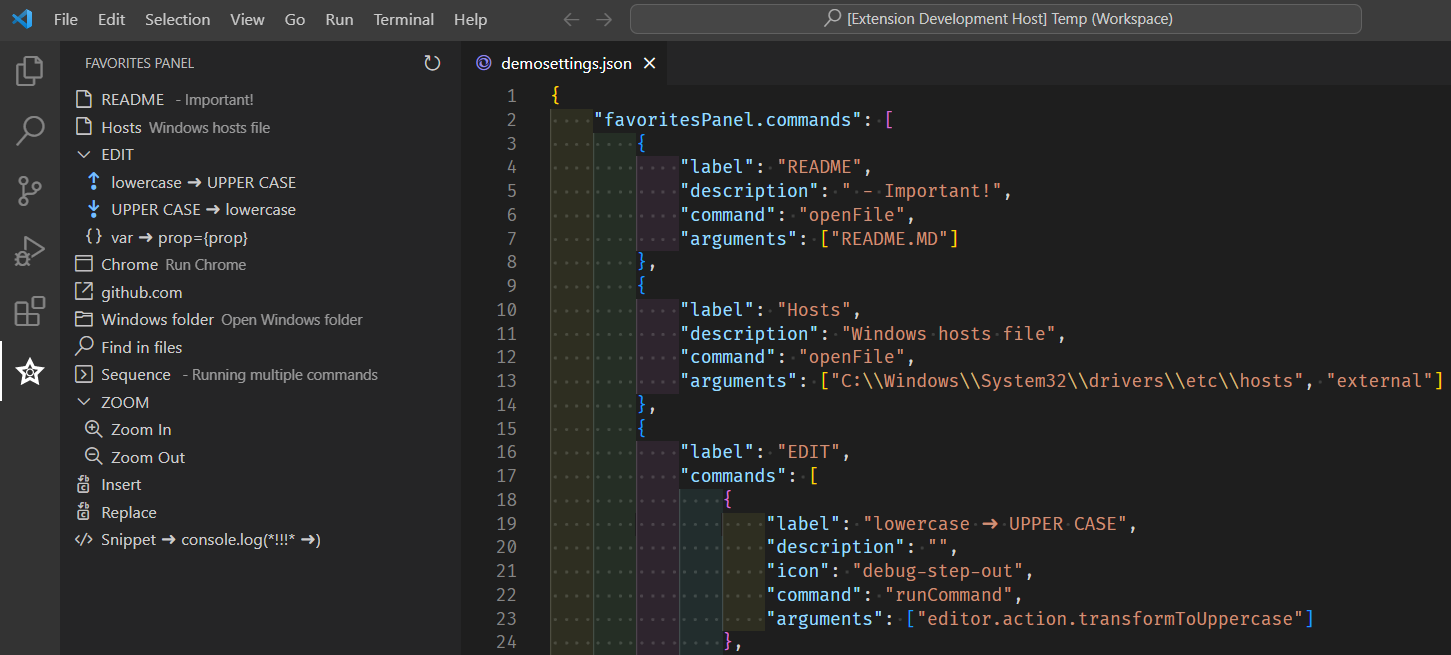
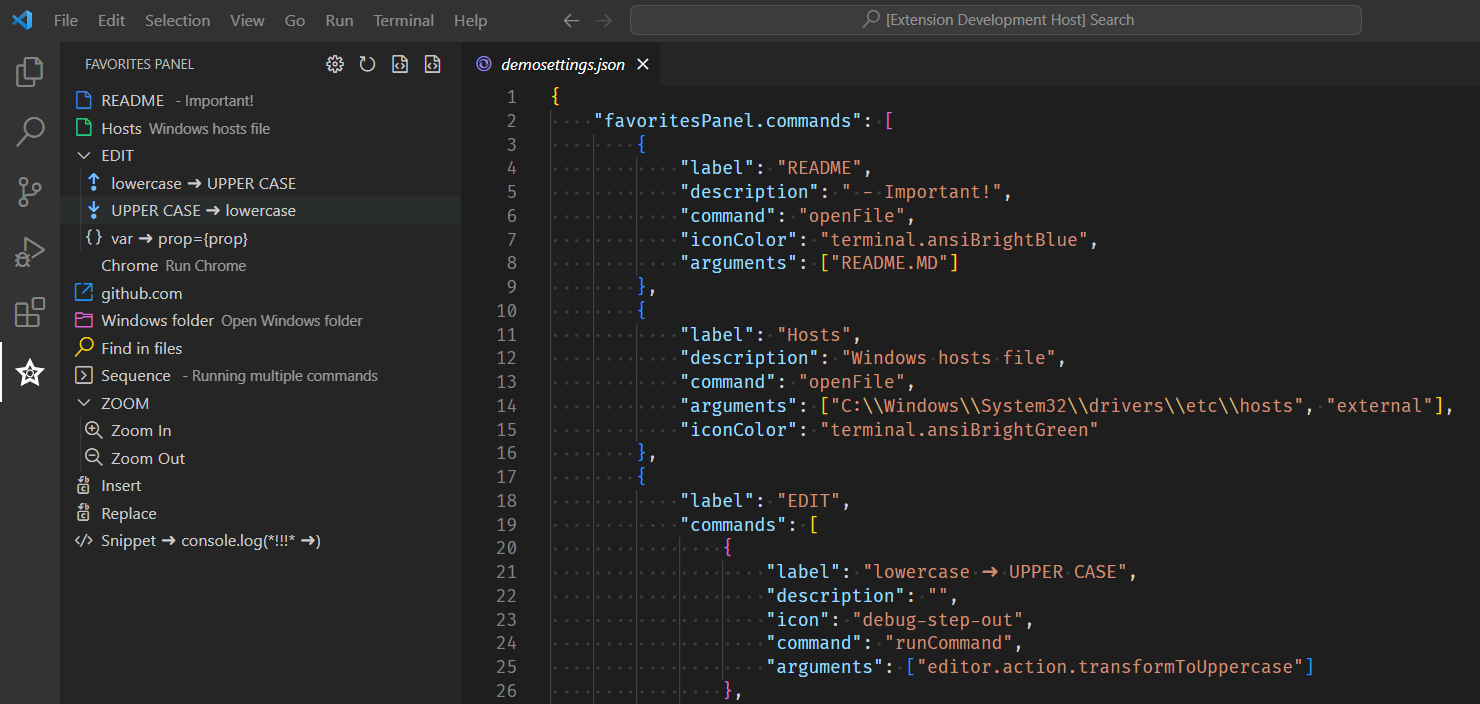
1.4.0 Added new settings format for files

diff --git a/src/extension.ts b/src/extension.ts
@@ -3,7 +3,7 @@ import * as vscode from 'vscode';
 import * as fs from 'fs';
 import * as path from 'path';
 import {PLUGIN_NAME} from './consts';
-import {ICommand, ICommandWithSequence, IStore, TCommand} from './types';
+import {ICommandWithSequence, IStore, TCommand} from './types';
 import {FavoritesPanelProvider} from './FavoritesPanelProvider';
 import {TreeItem} from './TreeItem';
 import {insertNewCode, openFile, openUrl, runCommand, runProgram, runSequence} from './commands';
@@ -76,10 +76,16 @@ const getCommandsFromWorkspaceConf = (): TCommand[] => vscode.workspace.getConfi
 const getConfFilePath = (): string => vscode.workspace.getConfiguration(PLUGIN_NAME).get('configPath') || '';
 const getWorkspaceConfFilePath = (): string => vscode.workspace.getConfiguration(PLUGIN_NAME).get('configPathForWorkspace') || '';
 
-// Get commands from file.
+/**
+ * Get commands from file.
+ * @param file full path with filename.
+ */
 const getCommandsFromFile = (file: string): TCommand[] => {
     if (file && fs.existsSync(file)) {
         const json = JSON.parse(fs.readFileSync(file, 'utf8'));
+        if (Array.isArray([json])) {
+            return json;
+        }
         return json[`${PLUGIN_NAME}.commands`];
     } else {
         return [];

diff --git a/README.md b/README.md
@@ -75,13 +75,98 @@ Example for OS Windows
 "favoritesPanel.configPath": "C:\\Projects\\favoritesPanel.json"
 ```
 
+Early versions of the extension prior to 1.3.0 only supported:
+```json
+{
+    "favoritesPanel.commands": [
+        {
+            "label": "README",
+            "description": " - Important!",
+            "command": "openFile",
+            "iconColor": "editorBracketHighlight.foreground6",
+            "arguments": ["README.MD"]
+        },
+        {
+            "label": "Hosts",
+            "description": "Windows hosts file",
+            "command": "openFile",
+            "arguments": ["C:\\Windows\\System32\\drivers\\etc\\hosts", "external"],
+            "iconColor": "editorBracketHighlight.foreground5"
+        }
+    ]
+}
+```
+
+Since version 1.4.0 you can also use a simplified version:
+```json
+[
+    {
+        "label": "README",
+        "description": " - Important!",
+        "command": "openFile",
+        "iconColor": "editorBracketHighlight.foreground6",
+        "arguments": ["README.MD"]
+    },
+    {
+        "label": "Hosts",
+        "description": "Windows hosts file",
+        "command": "openFile",
+        "arguments": ["C:\\Windows\\System32\\drivers\\etc\\hosts", "external"],
+        "iconColor": "editorBracketHighlight.foreground5"
+    }
+]
+```
+
+
 ### favoritesPanel.configPathForWorkspace
 Use this setting if you wish to set specific settings for the workspace.
 >Please note that you need to specify this setting in the workspace setting, not the User settings
 
 Example for OS Windows
 ```json
-"favoritesPanel.configPathForWorkspace": "C:\\Projects\\favoritesPanelForMyProject.json"
+"favoritesPanel.configPathForWorkspace": "C:\\Projects\\Project1\\favoritesPanelForMyProject1.json"
+```
+
+Early versions of the extension prior to 1.3.0 only supported:
+```json
+{
+    "favoritesPanel.commands": [
+        {
+            "label": "README",
+            "description": " - Important!",
+            "command": "openFile",
+            "iconColor": "editorBracketHighlight.foreground6",
+            "arguments": ["README.MD"]
+        },
+        {
+            "label": "Hosts",
+            "description": "Windows hosts file",
+            "command": "openFile",
+            "arguments": ["C:\\Windows\\System32\\drivers\\etc\\hosts", "external"],
+            "iconColor": "editorBracketHighlight.foreground5"
+        }
+    ]
+}
+```
+
+Since version 1.4.0 you can also use a simplified version:
+```json
+[
+    {
+        "label": "README",
+        "description": " - Important!",
+        "command": "openFile",
+        "iconColor": "editorBracketHighlight.foreground6",
+        "arguments": ["README.MD"]
+    },
+    {
+        "label": "Hosts",
+        "description": "Windows hosts file",
+        "command": "openFile",
+        "arguments": ["C:\\Windows\\System32\\drivers\\etc\\hosts", "external"],
+        "iconColor": "editorBracketHighlight.foreground5"
+    }
+]
 ```
 
 ### favoritesPanel.explorerView
@@ -124,6 +209,29 @@ The available colors of icon are listed in [here](https://code.visualstudio.com/
 > - terminal.ansiRed: 'Red' ANSI color in the terminal.
 > - terminal.ansiWhite: 'White' ANSI color in the terminal.
 > - terminal.ansiYellow: 'Yellow' ANSI color in the terminal.
+
+You can also define your own colors for use in the extension.
+You need to add to the Visual Studio Code settings:
+```js
+"workbench.colorCustomizations": {
+    "favoritesPanel.myColorGreen": "#006700",
+    "favoritesPanel.myColorBlue": "#000067"
+},
+```
+
+And in the extension settings specify:
+```json
+{
+    "command": "openFile",
+    "icon": "file",
+    "iconColor": "favoritesPanel.myColorGreen",
+},
+{
+    "command": "openFile",
+    "icon": "file",
+    "iconColor": "favoritesPanel.myColorBlue",
+},
+```
 
 
 ## Examples of using the plugin
@@ -482,8 +590,7 @@ Copy this snippet of settings into settings.json file (VS Code settings file) to
 
 ## Release Notes
 
-### 1.3.0 | 2023/03/26
-- Improvements of sequence.
-- Added the ability to change the color of icons.
+### 1.4.0 | 2023/03/29
+- Added new settings format for __favoritesPanel.configPath__ and __favoritesPanel.configPathForWorkspace__.
 
 More information in the [changelog](CHANGELOG.md "Changelog")

diff --git a/CHANGELOG.md b/CHANGELOG.md
@@ -1,5 +1,8 @@
 # Change Log
 
+## 1.4.0 | 2023/03/29
+- Added new settings format for __favoritesPanel.configPath__ and __favoritesPanel.configPathForWorkspace__.
+
 ## 1.3.0 | 2023/03/26
 - Improvements of sequence.
 - Added the ability to change the color of icons.
